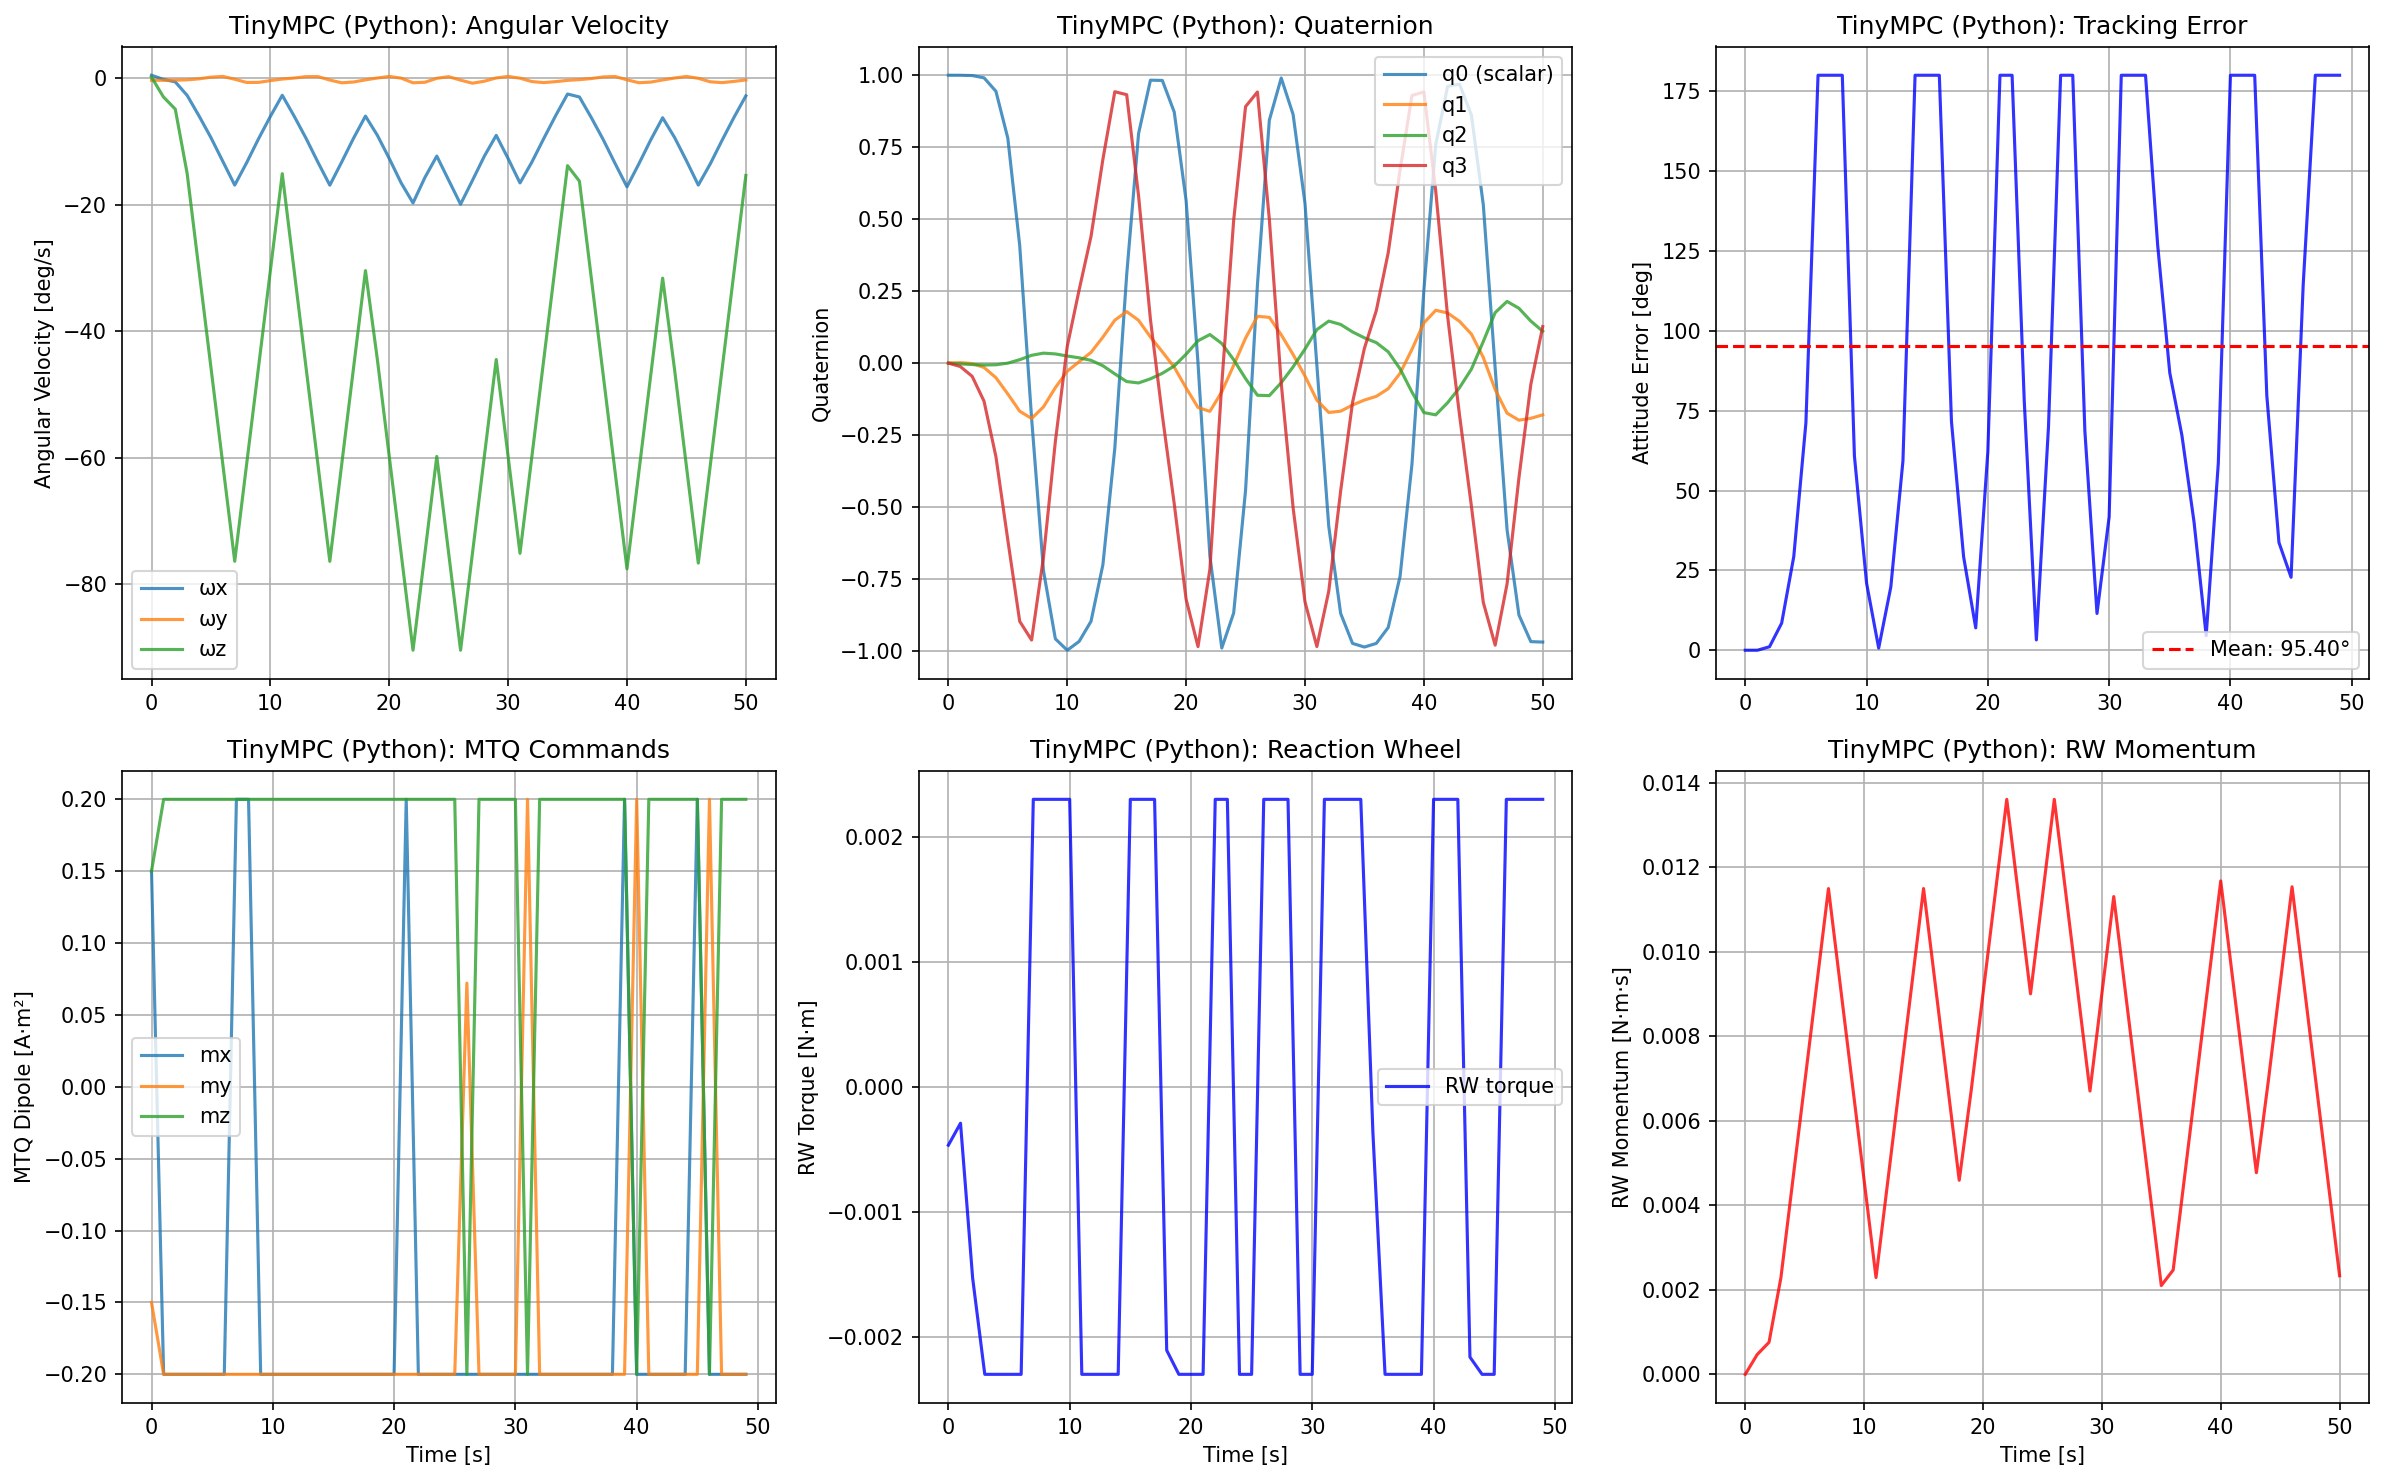
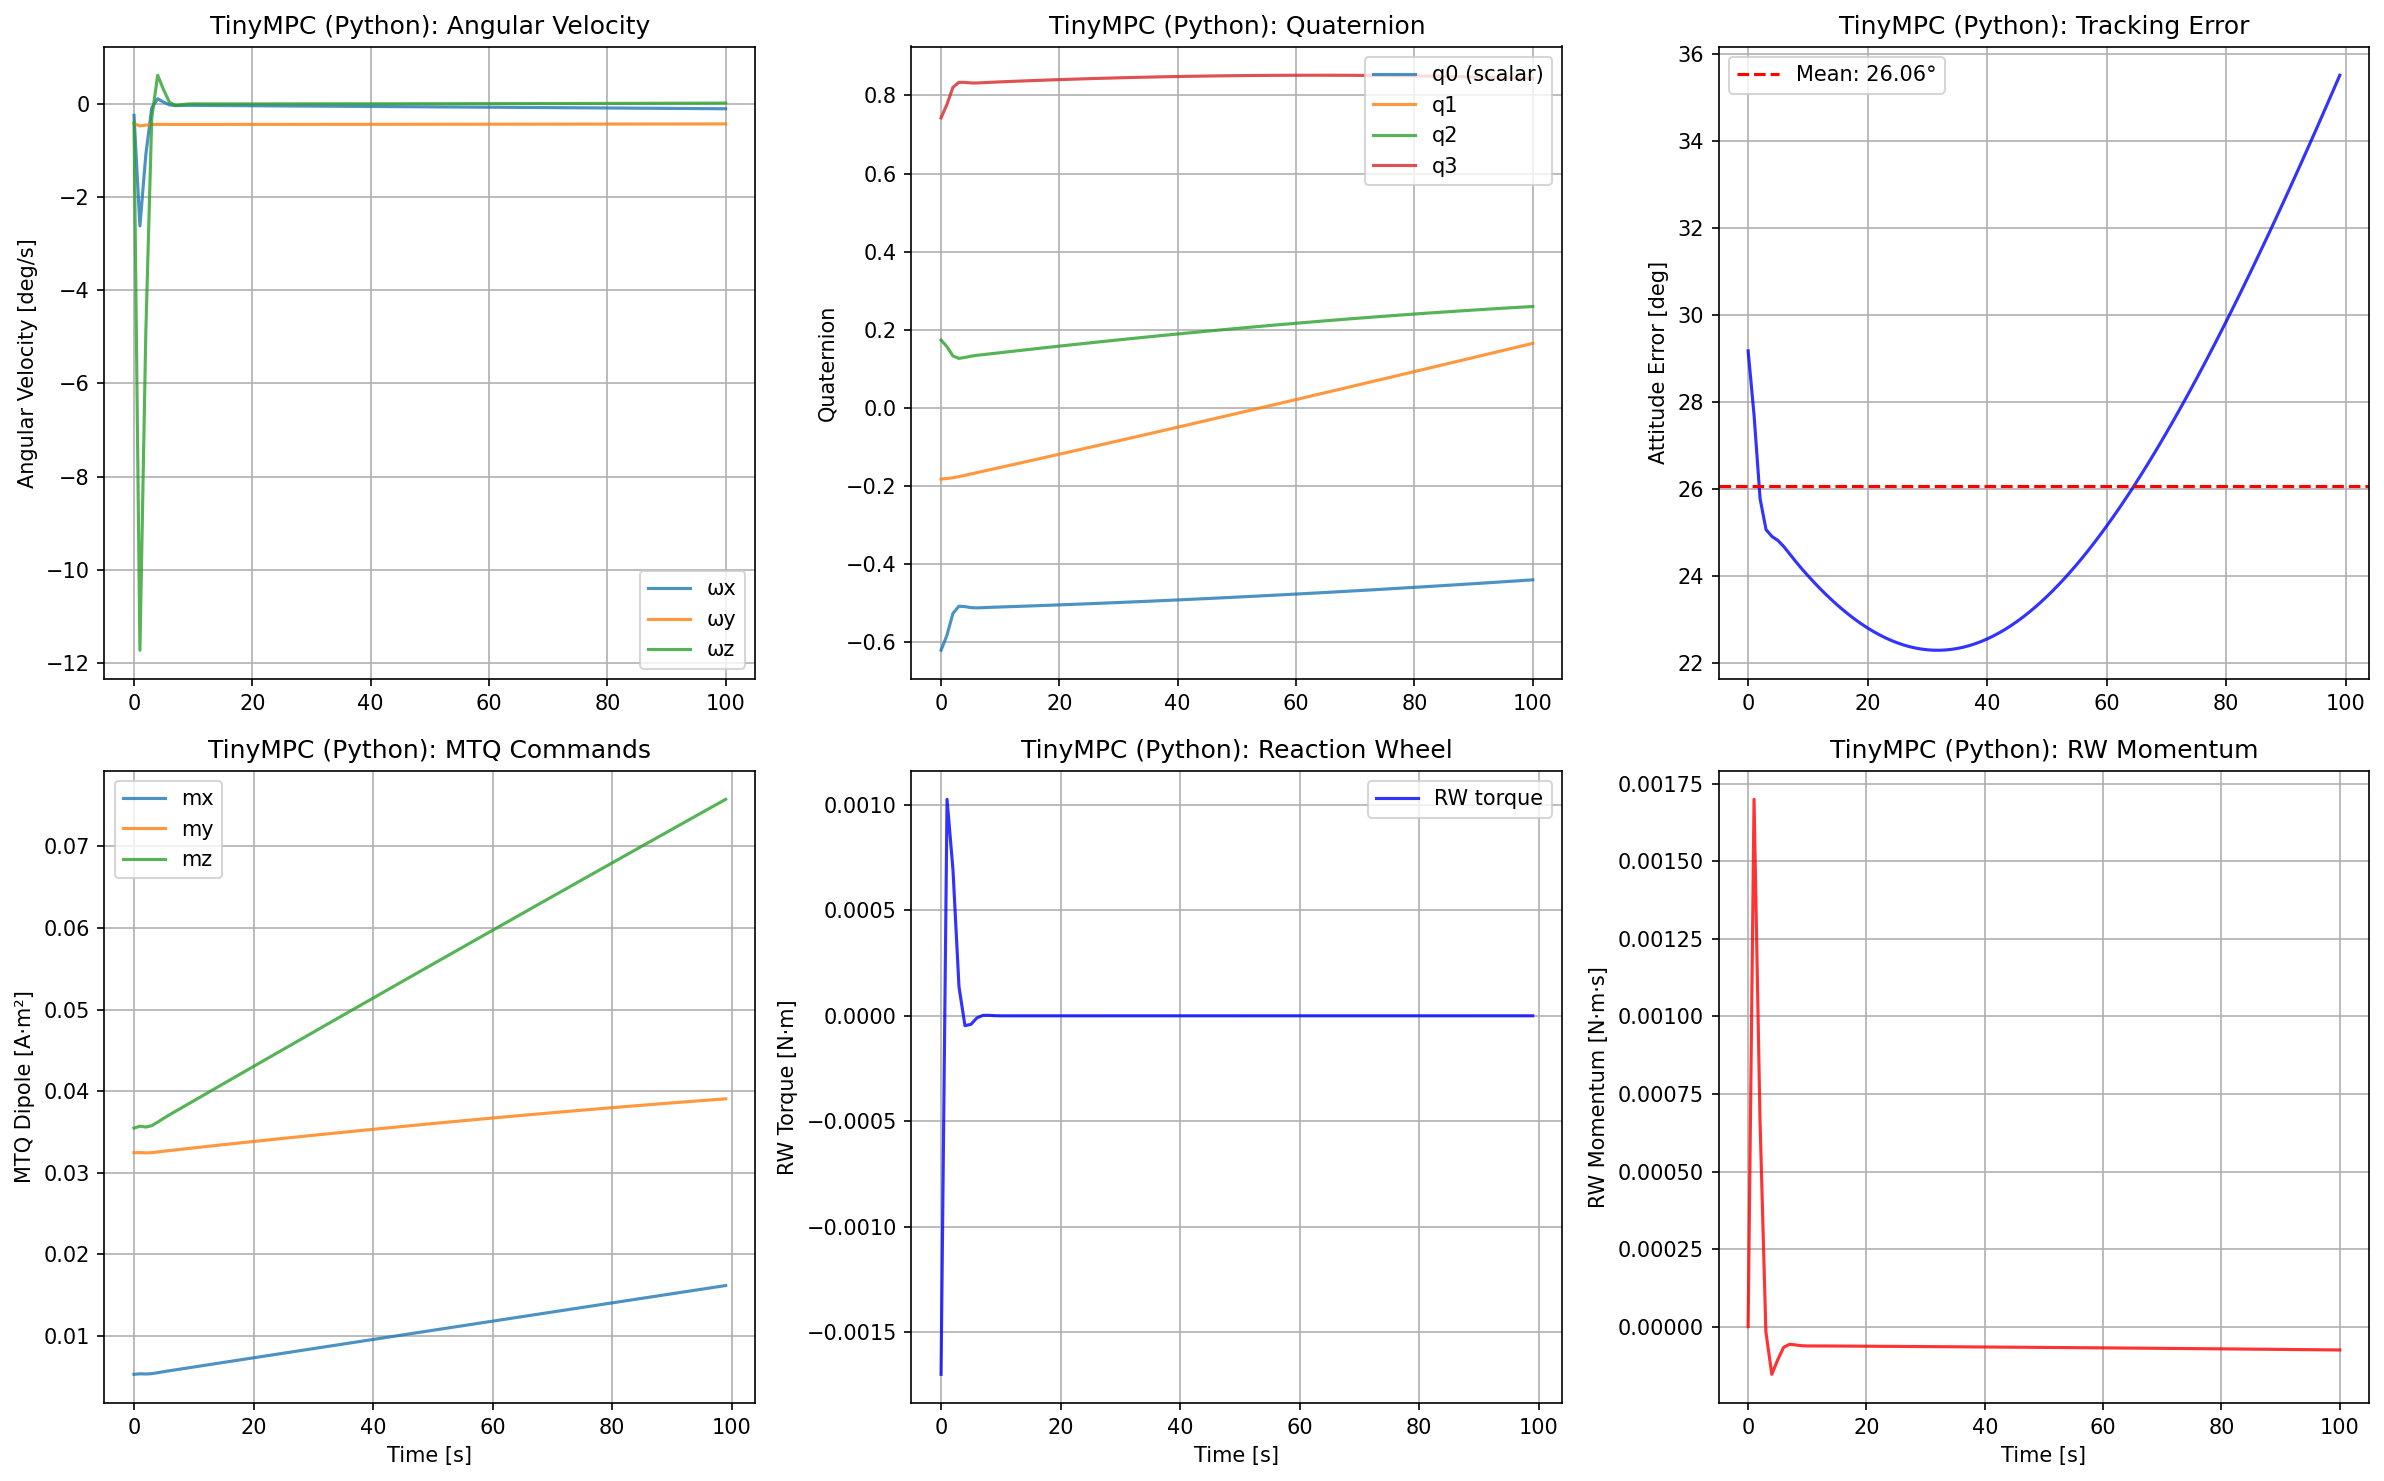
Verify TVLQR fix with non-trivial initial conditions
Results with seed=42, tf=500s, 29.17° initial error:
- Planned final: 0.66°
- Open-loop final: 76.51° (integration mismatch accumulates)
- TVLQR final: 0.61° (better than planned!)
- TVLQR improvement: +75.90° over open-loop

The quaternion error order fix is working correctly.

diff --git a/debug/debug_controllers/debug_plan_and_track/debug_plan_and_track_tinympc.py b/debug/debug_controllers/debug_plan_and_track/debug_plan_and_track_tinympc.py
@@ -61,13 +61,19 @@ except ImportError as e:
 # Test Configuration
 # ===========================================================================
 
-def create_test_planner_settings(est_sat, dt: float = 1.0, dt_planning: float = 10.0) -> PlannerSettings:
+def create_test_planner_settings(est_sat, dt: float = 1.0, dt_planning: float = 50.0) -> PlannerSettings:
     """Create planner settings for testing.
+
+    Uses settings tuned from debug_plan_and_track_bc2.py which achieved good tracking.
+
+    CRITICAL: TVLQR/TinyMPC gains are computed from cost_tvlqr settings.
+    If control_mult is too low, gains will be too aggressive and cause instability.
+    cost_tvlqr.control_mult should be ~1e4 (much higher than cost_main.control_mult).
 
     Args:
         est_sat: Estimated satellite model
         dt: Control timestep (dt_tvlqr)
-        dt_planning: Planning timestep (dt_tp)
+        dt_planning: Planning timestep (dt_tp) - use 50 for ALTRO convergence
     """
     settings = PlannerSettings(
         est_sat=est_sat,
@@ -76,20 +82,35 @@ def create_test_planner_settings(est_sat, dt: float = 1.0, dt_planning: float = 
         dt_tvlqr=dt,
     )
 
-    # Configure cost function
+    # ALTRO planning cost function (for trajectory optimization)
+    # Match BC2 tuning: higher angle costs for early convergence
     settings.cost_main.ang_cost_func_type = 0  # Linear - best convergence
-    settings.cost_main.angle = 1e6
-    settings.cost_main.angle_N = 1e7
+    settings.cost_main.angle = 1e7       # Higher than before for early convergence
+    settings.cost_main.angle_N = 1e8
     settings.cost_main.ang_vel = 1e4
     settings.cost_main.ang_vel_N = 1e5
-    settings.cost_main.control_mult = 1e-2
+    settings.cost_main.control_mult = 1e-2  # Low for ALTRO (encourages control usage)
+    settings.cost_main.use_raw_control_cost = True
+    settings.cost_main.use_full_cost_hessian = True  # Faster convergence
 
-    # Copy to tvlqr cost (used by TinyMPC)
-    settings.cost_tvlqr.angle = settings.cost_main.angle
-    settings.cost_tvlqr.angle_N = settings.cost_main.angle_N
-    settings.cost_tvlqr.ang_vel = settings.cost_main.ang_vel
-    settings.cost_tvlqr.ang_vel_N = settings.cost_main.ang_vel_N
-    settings.cost_tvlqr.control_mult = settings.cost_main.control_mult
+    # Hessian settings for faster convergence (from BC2)
+    settings.pass1.regularization.use_dynamics_hess = 1
+    settings.pass1.convergence.max_outer_iter = 8
+    settings.pass1.convergence.max_inner_iter = 50
+    settings.pass2.convergence.max_outer_iter = 5
+    settings.pass2.convergence.max_inner_iter = 20
+    settings.init_traj.bdot_gain = 500
+    settings.pass1.aug_lag.penalty_init = 100
+
+    # TVLQR/TinyMPC tracking cost function
+    # CRITICAL: control_mult must be MUCH HIGHER than cost_main to avoid aggressive gains
+    settings.cost_tvlqr.ang_cost_func_type = 0
+    settings.cost_tvlqr.angle = 1e6
+    settings.cost_tvlqr.angle_N = 1e7
+    settings.cost_tvlqr.ang_vel = 1e4
+    settings.cost_tvlqr.ang_vel_N = 1e5
+    settings.cost_tvlqr.control_mult = 1e4  # HIGH for TVLQR (prevents aggressive gains)
+    settings.cost_tvlqr.use_raw_control_cost = True
 
     return settings
 
@@ -195,12 +216,22 @@ def run_simulation(
         solve_time_hist.append(solve_time_ms)
         control_hist.append(u.copy())
 
-        # Compute tracking error if trajectory available
+        # Compute tracking error using pointing error (more robust than quaternion error)
+        # This measures how far the body boresight is from the goal direction
         if hasattr(controller, 'active_trajectory') and controller.active_trajectory is not None:
             try:
-                x_ref = controller.active_trajectory.get_state_at(t_cent)
-                q_err = quat_diff(normalize(x_current[3:7]), normalize(x_ref[3:7]))
-                att_err_rad = 2.0 * np.arcsin(min(np.linalg.norm(quat_to_vec3(q_err)), 1.0))
+                # Compute pointing error: angle between body Z-axis and goal vector
+                q = x_current[3:7]
+                w, x_q, y_q, z_q = q
+                R = np.array([
+                    [1 - 2*(y_q**2 + z_q**2), 2*(x_q*y_q - z_q*w), 2*(x_q*z_q + y_q*w)],
+                    [2*(x_q*y_q + z_q*w), 1 - 2*(x_q**2 + z_q**2), 2*(y_q*z_q - x_q*w)],
+                    [2*(x_q*z_q - y_q*w), 2*(y_q*z_q + x_q*w), 1 - 2*(x_q**2 + y_q**2)]
+                ])
+                body_boresight = np.array([0, 0, 1])
+                eci_boresight = R @ body_boresight
+                goal_vec_eci_t, _ = goals.to_ref(t=t_cent, os0=os_t)
+                att_err_rad = np.arccos(np.clip(np.dot(eci_boresight, goal_vec_eci_t), -1, 1))
                 tracking_error_hist.append(np.rad2deg(att_err_rad))
             except Exception:
                 tracking_error_hist.append(np.nan)
@@ -596,13 +627,16 @@ def main():
     parser = argparse.ArgumentParser(description="Test TinyMPC Plan and Track controllers")
     parser.add_argument('--cpp', action='store_true', help='Also test C++ TinyMPC')
     parser.add_argument('--compare', action='store_true', help='Run TVLQR comparison')
-    parser.add_argument('--duration', type=float, default=100.0, help='Simulation duration (seconds)')
+    parser.add_argument('--duration', type=float, default=500.0, help='Simulation duration (seconds)')
     parser.add_argument('--save', type=str, default=None, help='Directory to save plots')
     args = parser.parse_args()
 
     print("="*60)
     print("TinyMPC Plan and Track Controller Test")
     print("="*60)
+
+    # Use deterministic seed like BC2 test
+    np.random.seed(42)
 
     # Default save directory
     save_dir = args.save
@@ -635,17 +669,18 @@ def main():
     goal = ECI_Goal(goal_vec)
     goals = GoalList({t_start_cent: goal})
 
-    # Initial state
-    # Small initial angular velocity, identity quaternion, zero RW momentum
+    # Initial state - use random initial conditions like BC2 (with deterministic seed)
     n_rw = 1  # BeaverCube2 has 1 reaction wheel
     state_dim = 7 + n_rw
-    x_0 = np.zeros(state_dim)
-    x_0[0:3] = np.deg2rad([0.5, -0.3, 0.2])  # Small initial rates [rad/s]
-    x_0[3:7] = [1.0, 0.0, 0.0, 0.0]  # Identity quaternion [w, x, y, z]
-    x_0[7] = 0.0  # RW momentum
+    w0 = np.random.randn(3) * 0.01  # ~0.5 deg/s typical
+    q0 = normalize(np.random.randn(4))
+    h0 = np.array([0.0])  # RW momentum
+    x_0 = np.concatenate([w0, q0, h0])
+    print(f"Initial angular velocity: {np.rad2deg(np.linalg.norm(w0)):.2f} deg/s")
+    print(f"Initial quaternion: {q0}")
 
     # Settings
-    planner_settings = create_test_planner_settings(sat, dt=1.0, dt_planning=10.0)
+    planner_settings = create_test_planner_settings(sat, dt=1.0, dt_planning=50.0)
     tinympc_settings = create_test_tinympc_settings()
 
     duration_sec = args.duration

diff --git a/ADCS/controller/plan_and_track_tinympc_py.py b/ADCS/controller/plan_and_track_tinympc_py.py
@@ -145,6 +145,10 @@ class TinyMPCSolverPy:
         # Current rho (may be adapted)
         self._rho = settings.rho
 
+        # Cached satellite and orbital state for nonlinear propagation
+        self._est_sat = None
+        self._os = None
+
     def set_cost_matrices(
         self,
         Q: NDArray[np.float64],
@@ -481,13 +485,18 @@ class TinyMPCSolverPy:
         error[0:3] = x[0:3] - x_ref[0:3]
 
         # Quaternion error using quat_diff (same as TVLQR)
+        # TVLQR uses: q_err = quat_diff(q_ref, q_curr) = q_ref^{-1} * q_curr
+        # This gives the rotation FROM reference TO current
         q = normalize(x[3:7])
         q_ref = normalize(x_ref[3:7])
-        q_err = quat_diff(q, q_ref)
+        # Handle quaternion double-cover: ensure q_ref is on same hemisphere as q
+        if np.dot(q, q_ref) < 0:
+            q_ref = -q_ref
+        q_err = quat_diff(q_ref, q)  # NOTE: order matches TVLQR (q_ref first!)
 
-        # Linearized attitude error: 2 * vec(q_err)
-        # This gives the small-angle approximation of the rotation error
-        error[3:6] = 2.0 * quat_to_vec3(q_err)
+        # Attitude error using MRP (Modified Rodrigues Parameters)
+        # quat_to_vec3 with mode=0 returns MRP = 2*q_vec/(1+q0), already scaled
+        error[3:6] = quat_to_vec3(q_err)  # MRP already includes factor of 2
 
         # RW momentum error (indices 6:6+n_rw)
         if n_rw > 0:
@@ -537,8 +546,10 @@ class TinyMPCSolverPy:
 
             U[:, k] = u_admm
 
-            # Propagate dynamics
-            X[:, k + 1] = self.A @ X[:, k] + self.B @ U[:, k] + self.c
+            # Propagate using nonlinear dynamics (more accurate than linearized)
+            dt = self.settings.track_dt
+            xdot = self._est_sat.dynamics_core(X[:, k], U[:, k], self._os)
+            X[:, k + 1] = X[:, k] + dt * xdot
 
             # Normalize quaternion
             X[3:7, k + 1] = normalize(X[3:7, k + 1])
@@ -697,7 +708,11 @@ class TinyMPCSolverPy:
         # Build local reference trajectory for MPC horizon
         X_ref_local, U_ref_local = self.build_local_reference(t_current)
 
-        # Linearize dynamics about reference
+        # Store satellite and orbital state for nonlinear propagation
+        self._est_sat = est_sat
+        self._os = os
+
+        # Linearize dynamics about reference (for Riccati gains only)
         self.linearize_dynamics(x_ref_0, u_ref_0, est_sat, os)
 
         # Solve Riccati for LQR gains
@@ -1016,7 +1031,8 @@ class Plan_and_Track_TinyMPC_Py(PlanAndTrackBase):
             )
 
         # Solve TinyMPC
-        result = self._mpc.solve(x_hat, current_time, est_sat, os_hat)
+        result = self._mpc.solve(x_hat, current_time, est_sat, os_hat,
+                                 use_altro_gains=self.tinympc_settings.use_altro_gains)
 
         if self.tinympc_settings.verbose >= 1:
             status = "converged" if result.converged else "max_iter"

diff --git a/debug/debug_controllers/debug_plan_and_track/debug_plan_and_track_bc2.py b/debug/debug_controllers/debug_plan_and_track/debug_plan_and_track_bc2.py
@@ -554,8 +554,8 @@ def test_plan_and_track_lqr(
     
     # High running cost forces EARLY convergence (not just terminal)
     # With type=0 + high running cost, error drops monotonically
-    planner_settings.cost_main.angle = 1e7
-    planner_settings.cost_main.angle_N = 1e8
+    planner_settings.cost_main.angle = 1e8
+    planner_settings.cost_main.angle_N = 1e9
     planner_settings.cost_main.ang_vel = 1e4
     planner_settings.cost_main.ang_vel_N = 1e5
 
@@ -565,10 +565,10 @@ def test_plan_and_track_lqr(
     
     # Iteration limits (balanced for speed vs quality)
     # Pass1 typically converges at outer=3, but leave margin
-    planner_settings.pass1.convergence.max_outer_iter = 8
-    planner_settings.pass1.convergence.max_inner_iter = 50
-    planner_settings.pass2.convergence.max_outer_iter = 5
-    planner_settings.pass2.convergence.max_inner_iter = 20
+    planner_settings.pass1.convergence.max_outer_iter = 10
+    planner_settings.pass1.convergence.max_inner_iter = 60
+    planner_settings.pass2.convergence.max_outer_iter = 7
+    planner_settings.pass2.convergence.max_inner_iter = 25
     
     # Other tuning
     planner_settings.init_traj.bdot_gain = 500
@@ -591,10 +591,10 @@ def test_plan_and_track_lqr(
     planner_settings.cost_tvlqr = CostWeights(
         angle=1e6,          # State error cost
         angle_N=1e7,        # Terminal state error cost
-        ang_vel=1e4,        # Angular velocity cost
-        ang_vel_N=1e5,      # Terminal angular velocity cost
-        control_mult=1e4,   # CRITICAL: Higher than cost_main to reduce gain aggressiveness
-        ang_cost_func_type=0,
+        ang_vel=1e7,        # Angular velocity cost
+        ang_vel_N=1e8,      # Terminal angular velocity cost
+        control_mult=1e6,   # CRITICAL: Higher than cost_main to reduce gain aggressiveness
+        ang_cost_func_type=2,
         use_raw_control_cost=True,
     )
 

diff --git a/ADCS/controller/helpers/tinympc_settings.py b/ADCS/controller/helpers/tinympc_settings.py
@@ -76,6 +76,10 @@ class TinyMPCSettings:
     replan_angvel_threshold: float = 5.0 * np.pi / 180     # 5 deg/s
     replan_min_interval: float = 10.0                       # seconds
 
+    # Control Mode
+    use_altro_gains: bool = True  # If True, use ALTRO's K gains with saturation (constrained TVLQR)
+                                  # If False, use full ADMM optimization
+
     # Verbosity
     verbose: int = 0
 
@@ -119,5 +123,6 @@ class TinyMPCSettings:
             "replan_attitude_threshold": self.replan_attitude_threshold,
             "replan_angvel_threshold": self.replan_angvel_threshold,
             "replan_min_interval": self.replan_min_interval,
+            "use_altro_gains": self.use_altro_gains,
             "verbose": self.verbose,
         }
